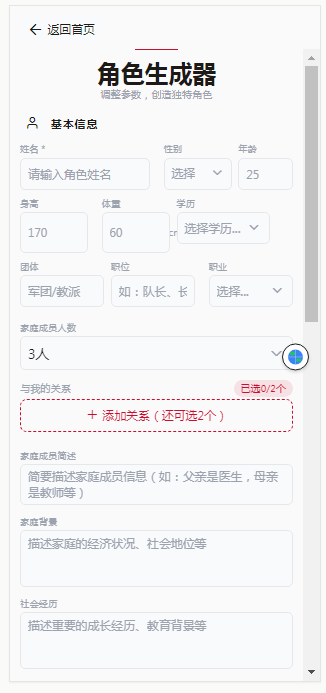
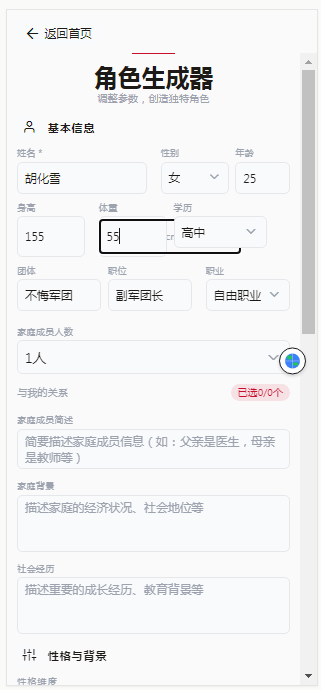
fix: 优化角色生成器表单布局与修复字段保存问题
- 修复职业、学历、性别手动输入保存问题
- 优化角色生成器表单布局：
  - 姓名输入框缩小五分之一
  - 三个输入框间隙均匀分布（gap: 8）
  - 身高体重输入框高度缩小三分之一
  - 学历输入框向右对齐
  - 整体表单间距紧缩
- 修复职位字段保存问题（添加position字段支持）
- 修复角色生成失败问题（Metro代理配置）

diff --git a/client/screens/character/index.tsx b/client/screens/character/index.tsx
@@ -320,8 +320,8 @@ export default function CharacterScreen() {
 
           {/* 第一行：姓名、性别、年龄 */}
           <View style={styles.inputRow}>
-            {/* 姓名 - 占一半宽度 */}
-            <View style={[styles.inputGroup, { flex: 1, marginRight: 8 }]}>
+            {/* 姓名 - 缩小五分之一 */}
+            <View style={[styles.inputGroup, { flex: 0.8 }]}>
               <ThemedText variant="caption" color={theme.textMuted} style={styles.inputLabel}>
                 姓名 *
               </ThemedText>
@@ -370,15 +370,15 @@ export default function CharacterScreen() {
           </View>
 
           {/* 第二行：身高、体重、学历 */}
-          <View style={styles.inputRow}>
+          <View style={[styles.inputRow, { alignItems: 'flex-end' }]}>
             {/* 身高 - 预留4个汉字位置 */}
             <View style={[styles.inputGroup, styles.heightInputGroup]}>
               <ThemedText variant="caption" color={theme.textMuted} style={styles.inputLabel}>
                 身高
               </ThemedText>
-              <View style={styles.inputWithSuffix}>
+              <View style={[styles.inputWithSuffix, styles.compactInputWithSuffix]}>
                 <TextInput
-                  style={styles.textInputWithSuffix}
+                  style={[styles.textInputWithSuffix, styles.compactInput]}
                   placeholder="170"
                   placeholderTextColor={theme.textMuted}
                   value={heightInput.replace(/[^0-9]/g, '')}
@@ -386,7 +386,7 @@ export default function CharacterScreen() {
                   keyboardType="numeric"
                   maxLength={3}
                 />
-                <ThemedText variant="caption" color={theme.textMuted} style={styles.suffixText}>cm</ThemedText>
+                <ThemedText variant="caption" color={theme.textMuted} style={[styles.suffixText, styles.compactSuffixText]}>cm</ThemedText>
               </View>
             </View>
             {/* 体重 - 预留4个汉字位置 */}
@@ -394,9 +394,9 @@ export default function CharacterScreen() {
               <ThemedText variant="caption" color={theme.textMuted} style={styles.inputLabel}>
                 体重
               </ThemedText>
-              <View style={styles.inputWithSuffix}>
+              <View style={[styles.inputWithSuffix, styles.compactInputWithSuffix]}>
                 <TextInput
-                  style={styles.textInputWithSuffix}
+                  style={[styles.textInputWithSuffix, styles.compactInput]}
                   placeholder="60"
                   placeholderTextColor={theme.textMuted}
                   value={weightInput.replace(/[^0-9]/g, '')}
@@ -404,11 +404,11 @@ export default function CharacterScreen() {
                   keyboardType="numeric"
                   maxLength={3}
                 />
-                <ThemedText variant="caption" color={theme.textMuted} style={styles.suffixText}>kg</ThemedText>
+                <ThemedText variant="caption" color={theme.textMuted} style={[styles.suffixText, styles.compactSuffixText]}>kg</ThemedText>
               </View>
             </View>
             {/* 学历 Selection - 右侧 */}
-            <View style={[styles.inputGroup, { flex: 0.8, marginLeft: 8 }]}>
+            <View style={[styles.inputGroup, { flex: 0.8, marginLeft: 'auto' }]}>
               <ThemedText variant="caption" color={theme.textMuted} style={styles.inputLabel}>
                 学历
               </ThemedText>
@@ -431,7 +431,7 @@ export default function CharacterScreen() {
           {/* 第三行：团体、职位、职业 */}
           <View style={styles.inputRow}>
             {/* 团体 - 左侧 */}
-            <View style={[styles.inputGroup, { flex: 1, marginRight: 8 }]}>
+            <View style={[styles.inputGroup, { flex: 1 }]}>
               <ThemedText variant="caption" color={theme.textMuted} style={styles.inputLabel}>
                 团体
               </ThemedText>
@@ -444,7 +444,7 @@ export default function CharacterScreen() {
               />
             </View>
             {/* 职位 - 中间 */}
-            <View style={[styles.inputGroup, { flex: 1, marginRight: 8 }]}>
+            <View style={[styles.inputGroup, { flex: 1 }]}>
               <ThemedText variant="caption" color={theme.textMuted} style={styles.inputLabel}>
                 职位
               </ThemedText>
@@ -457,7 +457,7 @@ export default function CharacterScreen() {
               />
             </View>
             {/* 职业 - 右侧 */}
-            <View style={[styles.inputGroup, { flex: 1, marginLeft: 8 }]}>
+            <View style={[styles.inputGroup, { flex: 1 }]}>
               <ThemedText variant="caption" color={theme.textMuted} style={styles.inputLabel}>
                 职业
               </ThemedText>

diff --git a/client/screens/character/styles.ts b/client/screens/character/styles.ts
@@ -58,12 +58,16 @@ export const createStyles = (theme: Theme) => {
       textTransform: 'uppercase',
       letterSpacing: 1,
       fontSize: 13,
+      marginBottom: Spacing.sm,
     },
     inputGroup: {
-      marginBottom: Spacing.sm,
+      marginBottom: Spacing.xs,
     },
     inputRow: {
       flexDirection: 'row',
+      alignItems: 'flex-end',
+      gap: 8,
+      marginBottom: Spacing.xs,
     },
     inputLabel: {
       marginBottom: 2,
@@ -87,7 +91,7 @@ export const createStyles = (theme: Theme) => {
       borderRadius: 6,
       borderWidth: 1,
       borderColor: theme.border,
-      minHeight: 38,
+      minHeight: 24,
     },
     textInputWithSuffix: {
       flex: 1,
@@ -95,7 +99,7 @@ export const createStyles = (theme: Theme) => {
       paddingVertical: Spacing.xs,
       fontSize: 14,
       color: theme.textPrimary,
-      minHeight: 38,
+      minHeight: 24,
       borderWidth: 0,
       backgroundColor: 'transparent',
     },
@@ -103,7 +107,7 @@ export const createStyles = (theme: Theme) => {
       paddingHorizontal: Spacing.sm,
       paddingVertical: Spacing.xs,
       fontSize: 12,
-      lineHeight: 38,
+      lineHeight: 24,
       textAlignVertical: 'center',
     },
     occupationSelector: {
@@ -429,22 +433,33 @@ export const createStyles = (theme: Theme) => {
     // 性别输入组 - 预留4个汉字宽度（约64px）
     genderInputGroup: {
       width: 80,
-      marginLeft: 8,
     },
     // 年龄输入组 - 预留3个汉字宽度（约48px）
     ageInputGroup: {
       width: 64,
-      marginLeft: 8,
     },
-    // 身高输入组 - 预留4个汉字宽度（约64px）
+    // 身高输入组 - 预留4个汉字宽度（约64px），高度缩小
     heightInputGroup: {
       width: 80,
-      marginRight: 8,
     },
-    // 体重输入组 - 预留4个汉字宽度（约64px）
+    // 体重输入组 - 预留4个汉字宽度（约64px），高度缩小
     weightInputGroup: {
       width: 80,
-      marginLeft: 8,
+    },
+    // 缩小后的输入框高度
+    compactInput: {
+      minHeight: 24,
+      paddingVertical: Spacing.xs - 2,
+    },
+    // 缩小后的带单位输入框高度
+    compactInputWithSuffix: {
+      minHeight: 24,
+      paddingVertical: Spacing.xs - 2,
+    },
+    // 缩小后的单位文字
+    compactSuffixText: {
+      lineHeight: 24,
+      paddingVertical: 0,
     },
     // 性别选择弹窗
     genderModalContent: {

diff --git a/client/screens/character-result/index.tsx b/client/screens/character-result/index.tsx
@@ -154,6 +154,7 @@ export default function CharacterResultScreen() {
         height: protagonistData.height || params.height || '170cm',
         weight: params.weight || '未设定',
         group: params.group || '未设定',
+        position: params.position || '未设定',
         occupation: protagonistData.occupation || '未设定',
         education: params.education || '未设定',
         personality: protagonistData.personality || '',
